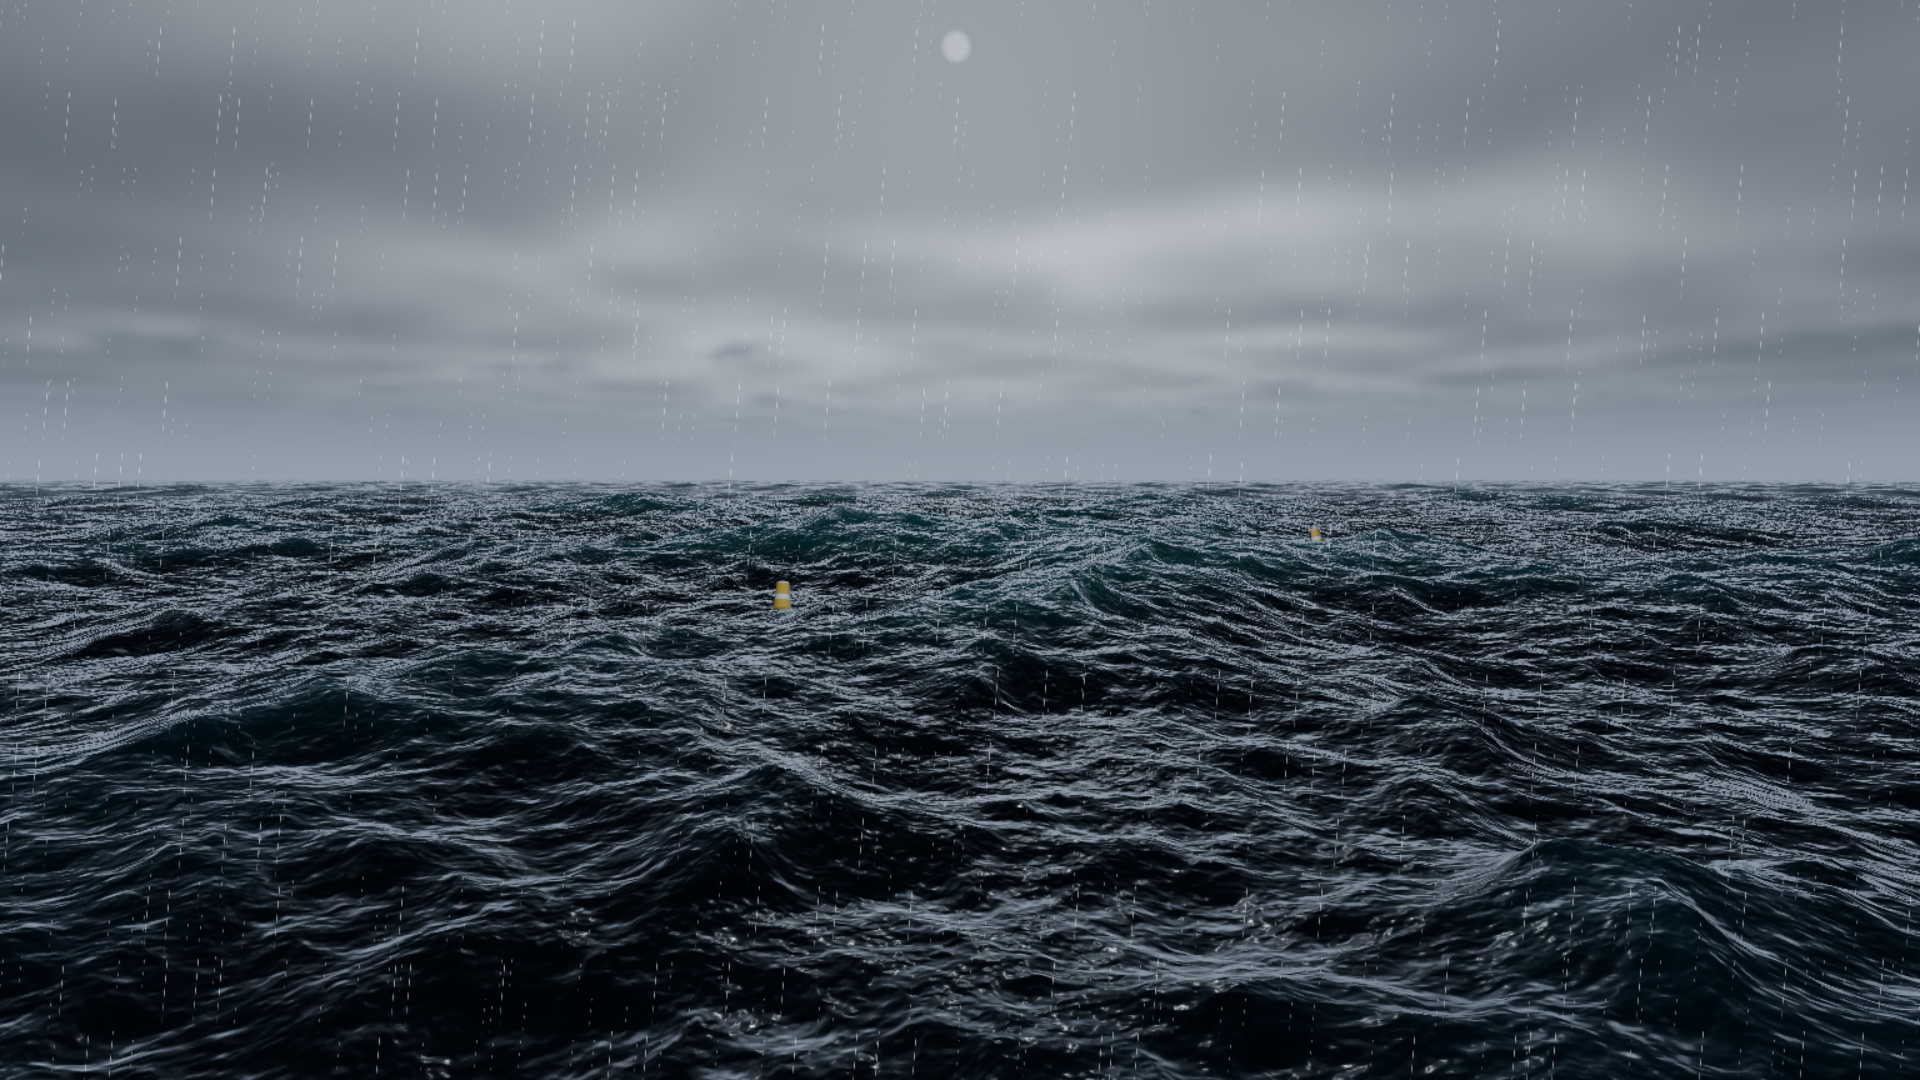
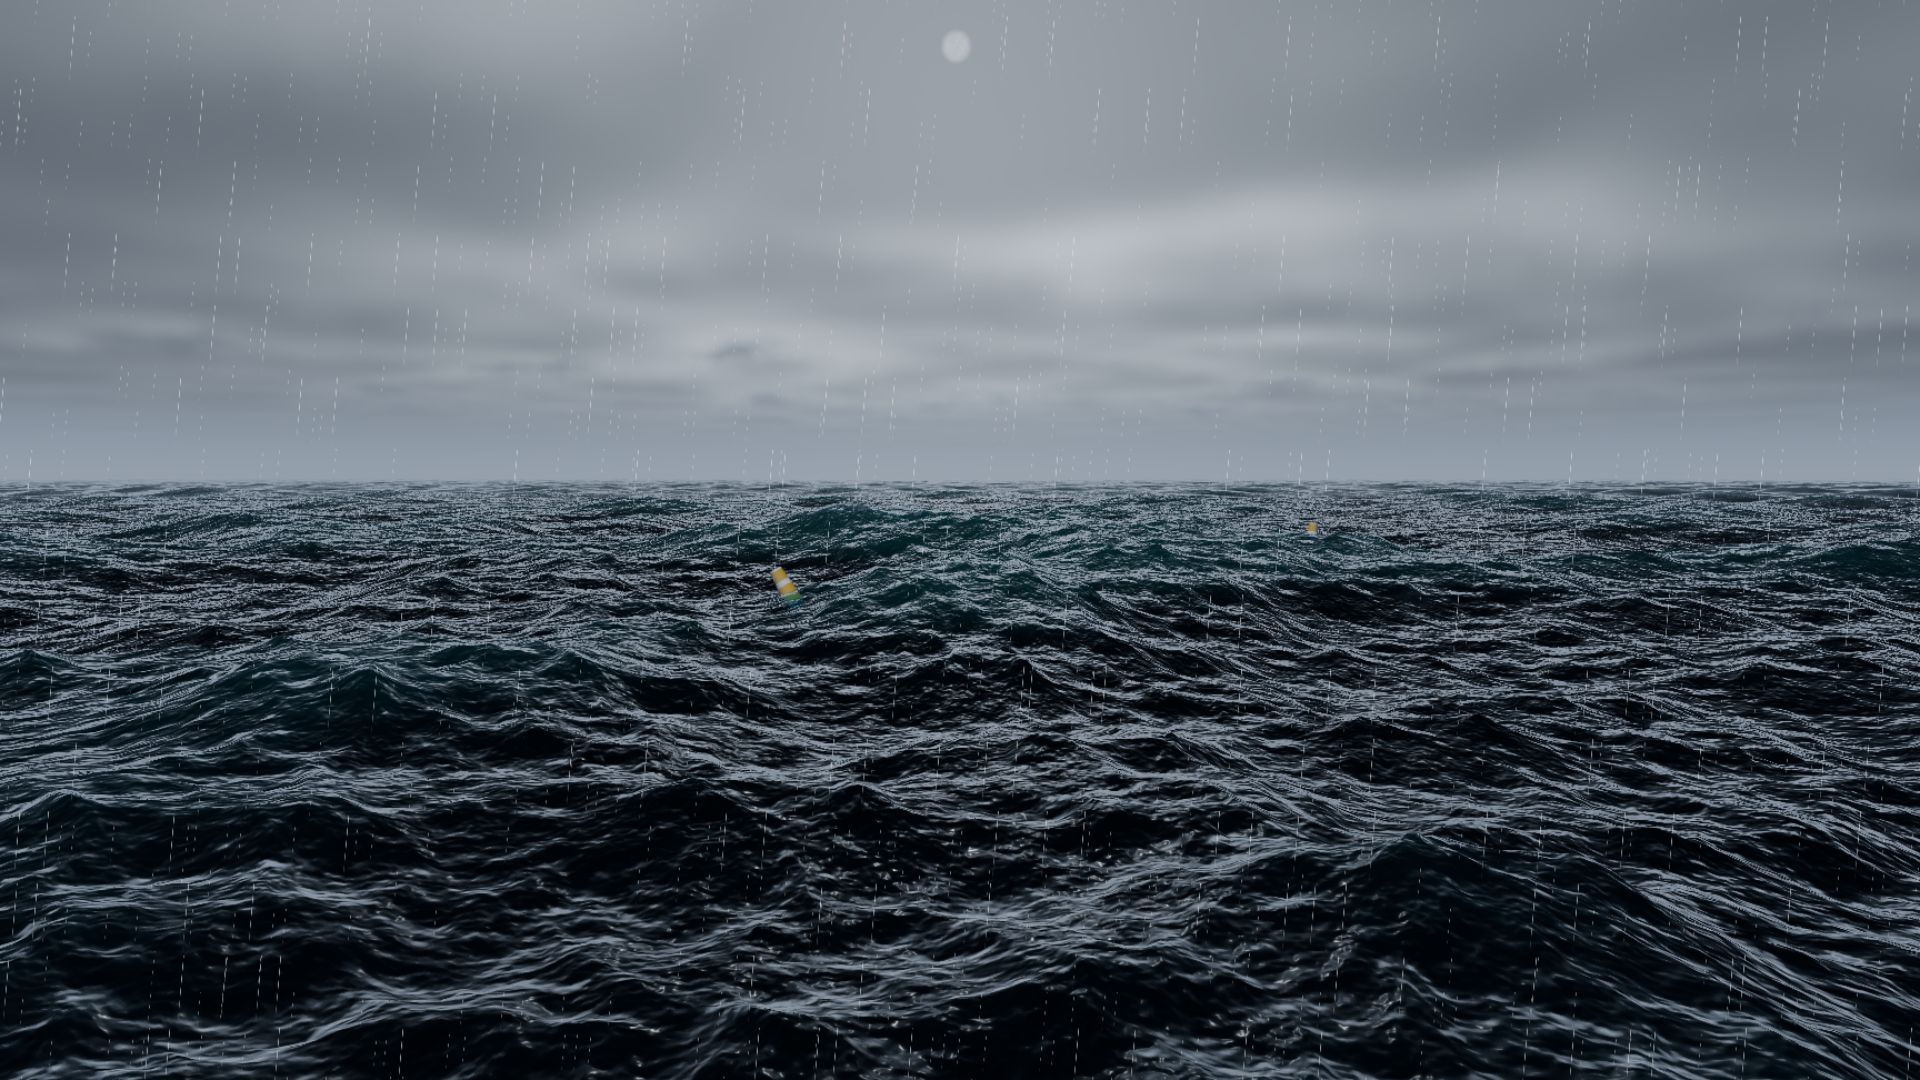
Reflect the scene, not just the sky
The last of the eight gaps. Until now the sea reflected the procedural sky and,
within forty metres, a planar pass for the boat. Everything else in the scene
was simply not in the water — and on a real sea the reflection is where most of
the large-scale tonal variation comes from.

The reflected ray is marched, each step projected to the screen and its own
depth compared against the buffer. Same two pieces the refraction already uses,
pointed the other way. It gives way to roughness for the same reason the boat's
reflection does, and fades at the frame border, because a reflection that stops
at the edge of the screen is the giveaway of the whole technique.

Two things caught it on the way, both worth their comments. `screenUV` is
texture convention with y downward while NDC is y upward — trap 6 in
research.md, and the kind of mistake that yields a plausible but vertically
mirrored image rather than an error. And `viewportDepthTexture(uv)` *creates* a
texture node: calling it inside an unrolled ten-step march made twenty separate
bindings and the pipeline layout was rejected with "Invalid PipelineLayout",
which says nothing about textures. Both viewport textures are now made once and
sampled many times.

High and ultra only, since the march is the most expensive thing the surface
does and the lower tiers exist not to do it. `?nossr=1` for the paired A/B,
which has not been run yet and whose cost is therefore not claimed here.

diff --git a/src/ocean/material.js b/src/ocean/material.js
@@ -19,10 +19,11 @@
 
 import { DoubleSide, FrontSide, Mesh, MeshBasicNodeMaterial } from 'three/webgpu';
 import {
-	Fn, If, abs, cameraPosition, dFdx, dFdy, dot, exp, faceDirection, float, fwidth, length, max, min, mix,
+	Fn, If, abs, cameraPosition, dFdx, dFdy, dot, exp, faceDirection, float, fract, fwidth, length, max, min, mix,
 	mx_fractal_noise_float, normalize, oneMinus, positionGeometry, positionWorld, pow, reflect,
 	refract, saturate, screenUV, smoothstep, step, texture, varyingProperty, vec2, vec3,
-	cameraFar, cameraNear, linearDepth, viewportDepthTexture, viewportSharedTexture,
+	cameraFar, cameraNear, cameraProjectionMatrix, cameraViewMatrix, linearDepth,
+	viewportDepthTexture, viewportSharedTexture, vec4,
 } from 'three/tsl';
 
 import { createWaveEvaluator, foamFromJacobian } from './waves.js';
@@ -33,6 +34,11 @@ import { causticPattern, fresnelSchlick, ggxSpecular, liftReflection, rippleSlop
 // at glitter-track roughness peaks around 3 — i.e. bright enough for ACES to
 // roll it to white without the surrounding water blowing out.
 const SUN_SPEC_SCALE = 0.22;
+
+/** Screen-space reflection march. */
+const SSR_STEPS = 10;
+const SSR_DISTANCE = 90.0;
+const SSR_THICKNESS = 0.0009;
 
 /**
  * @param {object} env
@@ -173,6 +179,16 @@ export function createOceanMaterial( env, field, sky, opts = {} ) {
 	/* ----------------------------------------------------------- fragment */
 
 	material.colorNode = Fn( () => {
+
+		// One node each, sampled many times.
+		//
+		// `viewportDepthTexture(uv)` and `viewportSharedTexture(uv)` each *create*
+		// a texture node, and the SSR march is an unrolled loop: calling them per
+		// step produced twenty separate bindings and the pipeline layout was
+		// rejected outright. The failure surfaces as "Invalid PipelineLayout" with
+		// no mention of textures, so it is worth naming here.
+		const sceneDepthTex = refracting ? viewportDepthTexture() : null;
+		const sceneColorTex = refracting ? viewportSharedTexture() : null;
 
 		const P = positionWorld;
 		const toEye = cameraPosition.sub( P ).toVar( 'toEye' );
@@ -362,6 +378,79 @@ export function createOceanMaterial( env, field, sky, opts = {} ) {
 
 		const R = liftReflection( reflect( V.negate(), N ) ).toVar( 'R' );
 		const reflection = sky.reflection( R, reflBlur ).toVar( 'reflection' );
+
+		// Screen-space reflections.
+		//
+		// Until now the only thing the sea reflected was the procedural sky, plus
+		// a planar pass for the boat confined to forty metres. Everything else in
+		// the scene — the seabed's shoals breaking the surface, another hull, the
+		// buoys — simply was not in the water. On a real sea the reflection is
+		// where most of the large-scale tonal variation comes from.
+		//
+		// March the reflected ray, project each step to the screen, and compare
+		// its own depth against what the depth buffer says is there. Same two
+		// pieces the refraction already uses, pointed the other way.
+		if ( refracting && opts.ssr !== false ) {
+
+			// screenUV is texture convention, y downward; NDC is y upward. That is
+			// trap 6 in research.md, and it is exactly the kind of thing that
+			// produces a plausible-looking but vertically mirrored result rather
+			// than an error.
+			const toScreen = ( p ) => {
+
+				const clip = cameraProjectionMatrix.mul( cameraViewMatrix ).mul( vec4( p, 1.0 ) ).toVar();
+				const ndc = clip.xy.div( max( clip.w, float( 1e-4 ) ) );
+				return vec4( ndc.x.mul( 0.5 ).add( 0.5 ), ndc.y.mul( - 0.5 ).add( 0.5 ), clip.w, 0.0 );
+
+			};
+
+			const span = cameraFar.sub( cameraNear );
+			const stepLen = float( SSR_DISTANCE / SSR_STEPS );
+
+			// Same low-discrepancy offset the other marches use, so eight steps do
+			// not band into visible shells.
+			const jit = fract( float( 52.9829189 ).mul( fract(
+				screenUV.x.mul( 0.06711056 * 1920.0 ).add( screenUV.y.mul( 0.00583715 * 1080.0 ) )
+			) ) );
+
+			const hitCol = vec3( 0.0 ).toVar( 'ssrCol' );
+			const hit = float( 0.0 ).toVar( 'ssrHit' );
+
+			for ( let i = 0; i < SSR_STEPS; i ++ ) {
+
+				const t = stepLen.mul( jit.add( i + 1 ) );
+				const sp = toScreen( P.add( R.mul( t ) ) ).toVar( `ssrP${ i }` );
+
+				// Behind the camera, or off screen: nothing to find.
+				const onScreen = step( 0.02, sp.x ).mul( step( sp.x, 0.98 ) )
+					.mul( step( 0.02, sp.y ) ).mul( step( sp.y, 0.98 ) )
+					.mul( step( 0.01, sp.z ) );
+
+				const rayLin = sp.z.sub( cameraNear ).div( span );
+				const sceneLin = linearDepth( sceneDepthTex.sample( sp.xy ) );
+
+				// The ray has passed behind something, and not by more than the
+				// thickness we are willing to believe is a surface rather than a
+				// gap we should have marched through.
+				const gap = rayLin.sub( sceneLin );
+				const found = step( 0.0, gap ).mul( step( gap, float( SSR_THICKNESS ) ) )
+					.mul( onScreen ).mul( oneMinus( hit ) );
+
+				hitCol.assign( mix( hitCol, sceneColorTex.sample( sp.xy ).rgb, found ) );
+				hit.assign( max( hit, found ) );
+
+			}
+
+			// Fade at the frame border, because a reflection that ends at the edge
+			// of the screen is the giveaway of the whole technique, and give way to
+			// roughness for the reason the boat's reflection does — a mirror image
+			// only survives on water smooth enough to hold it.
+			const fade = smoothstep( 0.0, 0.12, screenUV.y )
+				.mul( oneMinus( saturate( rough.mul( 2.6 ) ) ) );
+
+			reflection.assign( mix( reflection, hitCol, hit.mul( fade ).mul( u.ssrStrength ) ) );
+
+		}
 
 		if ( opts.propReflection ) {
 
@@ -600,14 +689,14 @@ export function createOceanMaterial( env, field, sky, opts = {} ) {
 			// waterline it happily read the hull's topsides and smeared them down
 			// into the sea, which showed up at once as a bright band under the boat.
 			const dHere = linearDepth().toVar( 'refrDepthHere' );
-			const dShift = linearDepth( viewportDepthTexture( shifted ) ).toVar( 'refrDepthShift' );
+			const dShift = linearDepth( sceneDepthTex.sample( shifted ) ).toVar( 'refrDepthShift' );
 			const ok = step( dHere, dShift ).toVar( 'refrBehind' );
 
 			const uv = mix( screenUV, shifted, ok ).toVar( 'refrFinalUV' );
-			const dThere = mix( linearDepth( viewportDepthTexture( screenUV ) ), dShift, ok )
+			const dThere = mix( linearDepth( sceneDepthTex.sample( screenUV ) ), dShift, ok )
 				.toVar( 'refrDepthThere' );
 
-			refracted.assign( viewportSharedTexture( uv ).rgb );
+			refracted.assign( sceneColorTex.sample( uv ).rgb );
 
 			// Both depths back into metres of view-Z, then along the ray.
 			const span = cameraFar.sub( cameraNear );

diff --git a/src/env/uniforms.js b/src/env/uniforms.js
@@ -28,7 +28,7 @@ export const SCALAR_KEYS = [
 	// water optics
 	'waterClarity', 'absorptionR', 'absorptionG', 'absorptionB',
 	'roughness', 'sssStrength', 'reflectivity', 'varianceRough',
-	'volumeGeom', 'scatterStrength', 'groupStrength', 'bodySunGain', 'sparkle', 'scatterSat',
+	'volumeGeom', 'scatterStrength', 'groupStrength', 'bodySunGain', 'sparkle', 'scatterSat', 'ssrStrength',
 	// foam
 	'foamAmount', 'foamThreshold', 'foamPersistence', 'foamSharpness',
 	// underwater
@@ -115,6 +115,7 @@ export function defaultParams() {
 			bodySunGain: 0.60,
 			sparkle: 0.85,
 			scatterSat: 1.0,
+			ssrStrength: 0.8,
 			sssStrength: 1.0,        // back-lit wave crest translucency
 			reflectivity: 1.0,
 
@@ -222,6 +223,9 @@ export function createEnv() {
 		// How much the upwelling scatter is scaled by the single-scattering albedo
 		// it was computed from. 0 restores the unscaled constant exactly.
 		scatterSat: uniform( 1.0 ),
+
+		// Blend of the screen-space hit against the procedural sky.
+		ssrStrength: uniform( 0.8 ),
 		backscatter: uniform( new Vector3( 0.02, 0.05, 0.06 ) ),
 		waveHs: uniform( 1.8 ),
 		sssStrength: uniform( 1 ),
@@ -365,6 +369,7 @@ export function syncUniforms( env, dt = 0 ) {
 	u.bodySunGain.value = p.bodySunGain ?? 0.60;
 	u.sparkle.value = p.sparkle ?? 0.85;
 	u.scatterSat.value = p.scatterSat ?? 1.0;
+	u.ssrStrength.value = p.ssrStrength ?? 0.8;
 	u.waveHs.value = Math.max( 0.05, p.waveHeight );
 
 	// Backscatter shares the scatter colour's chromaticity — they describe the

diff --git a/src/main.js b/src/main.js
@@ -340,6 +340,10 @@ class App {
 			spectral: this.spectral?.textures ?? null,
 			propReflection: this.propReflection ? this.propReflection.texture : null,
 			refract: new URLSearchParams( location.search ).get( 'norefract' ) !== '1',
+			// SSR is high/ultra only, as the march is the most expensive thing the
+			// surface does and the lower tiers exist to not do that.
+			ssr: ( this.quality === 'high' || this.quality === 'ultra' )
+				&& new URLSearchParams( location.search ).get( 'nossr' ) !== '1',
 			wake: this.wake,
 		} );
 
